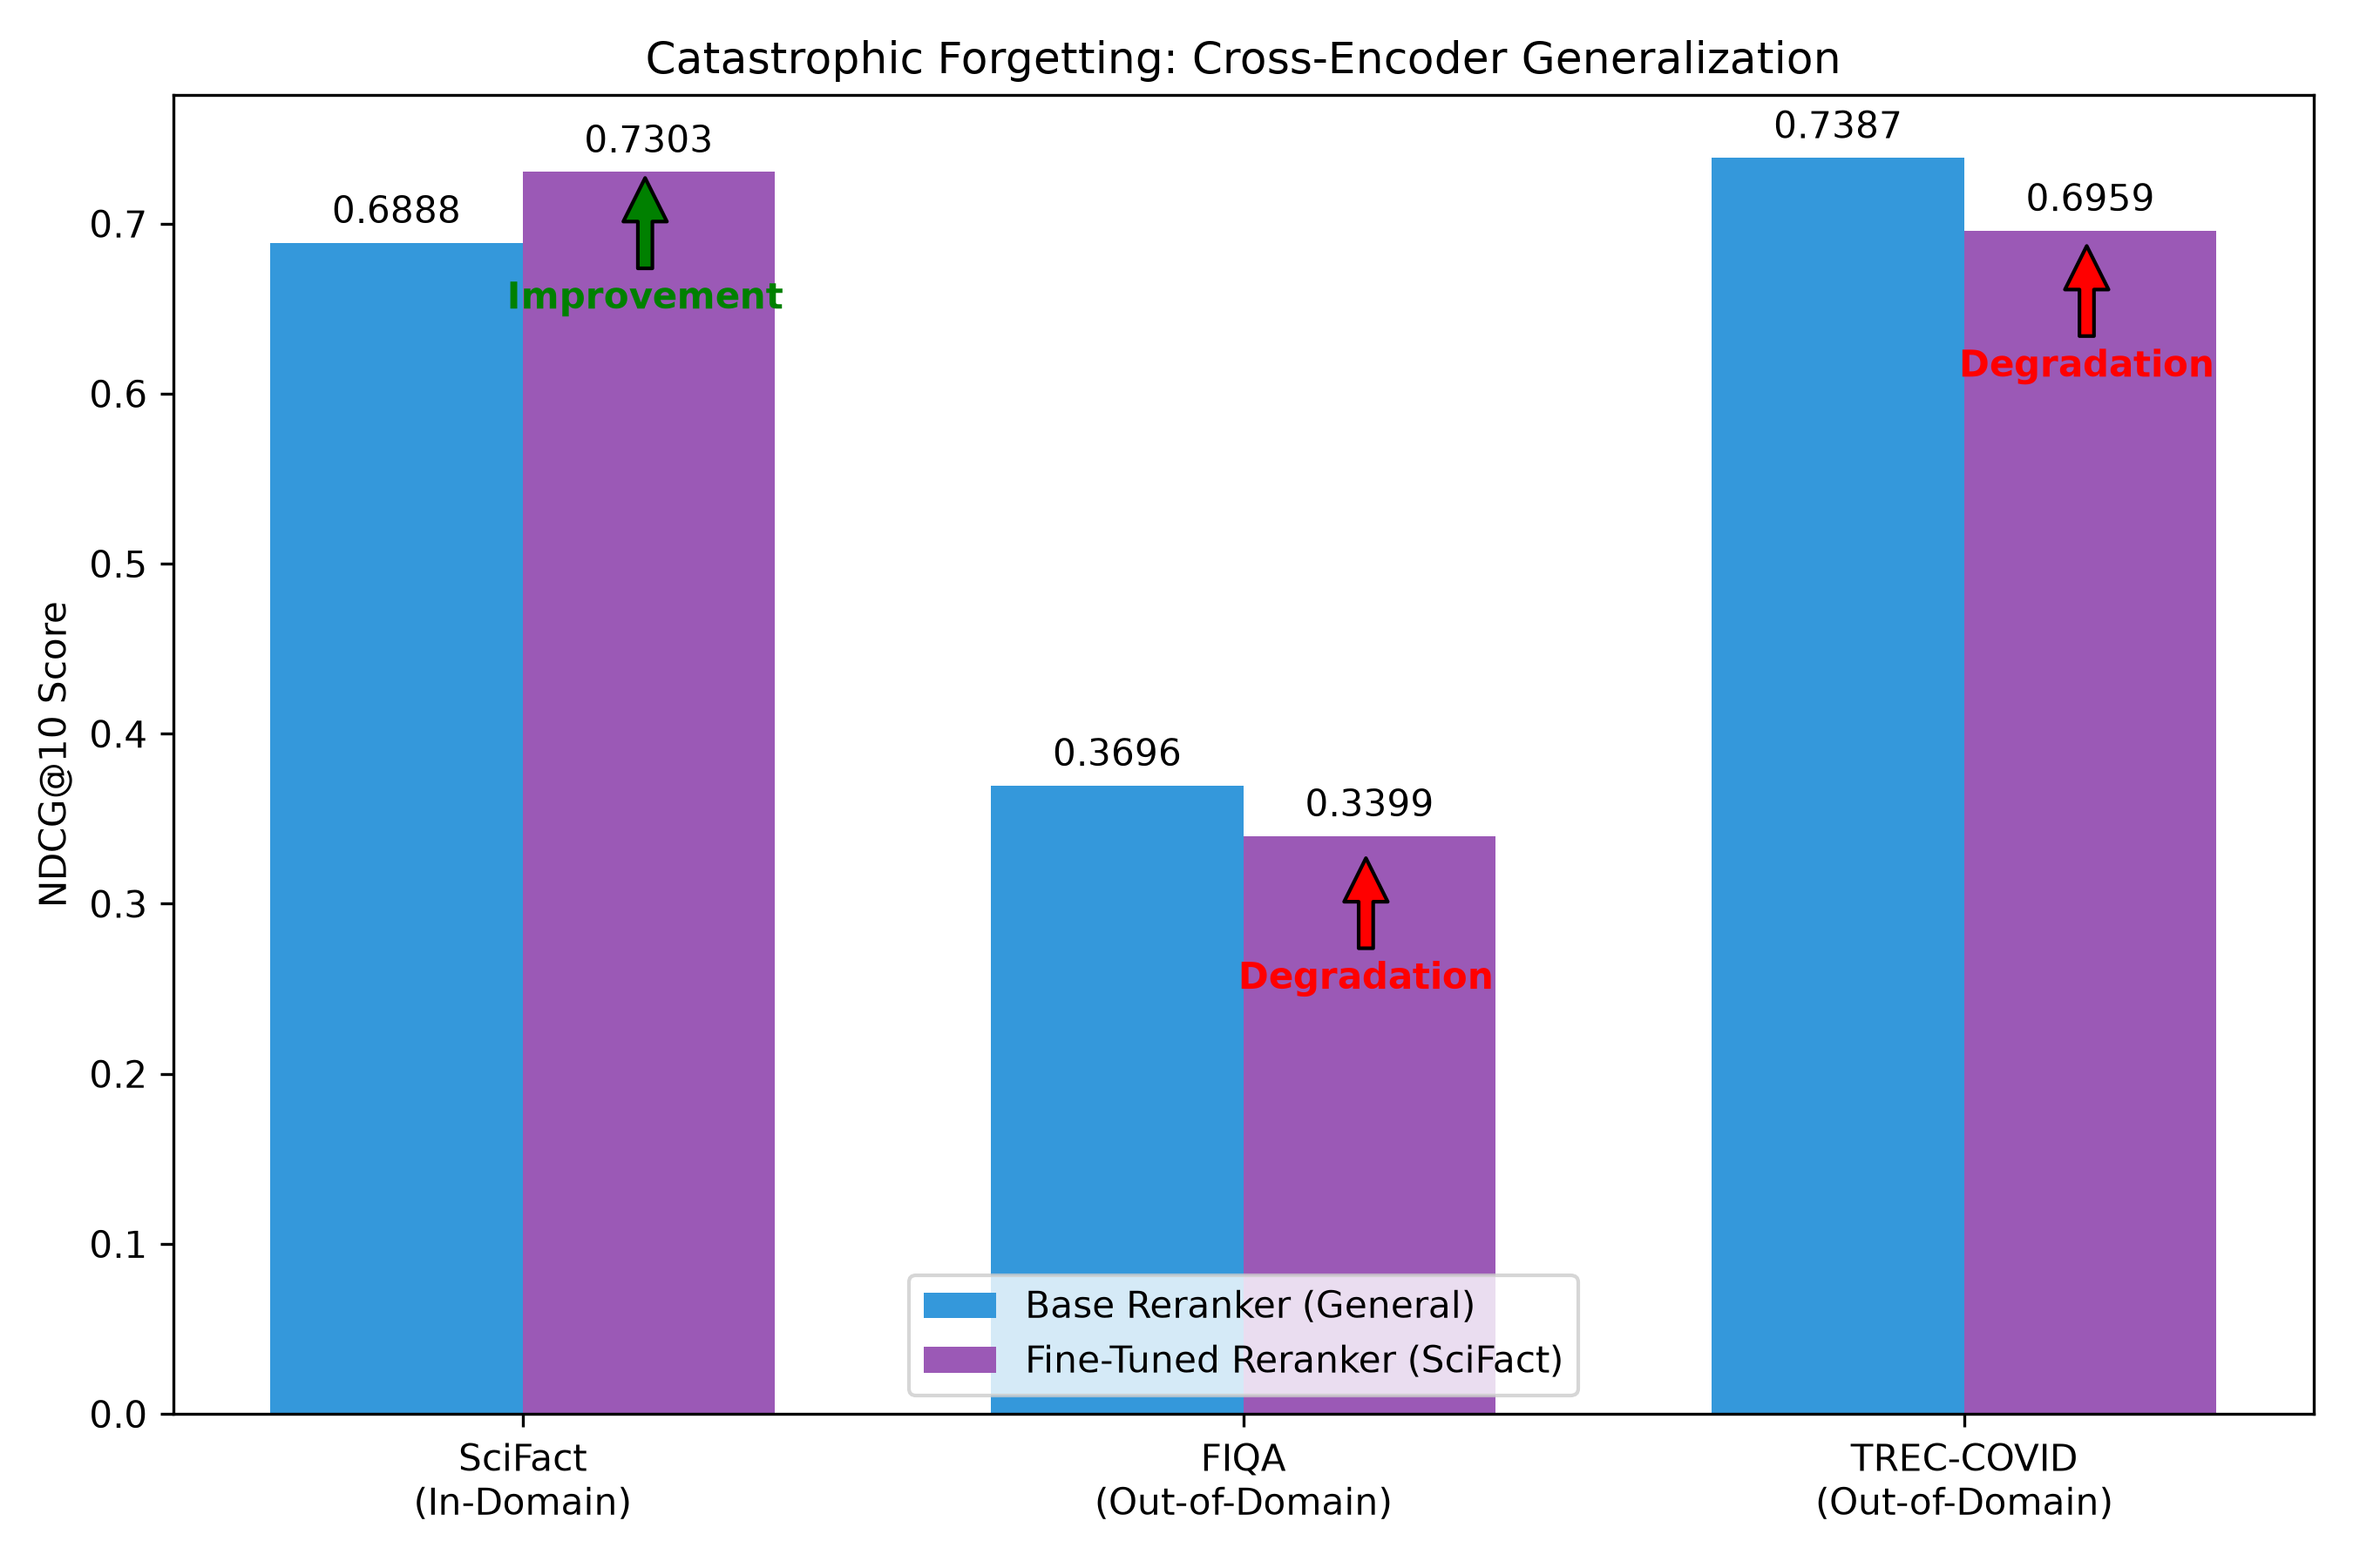
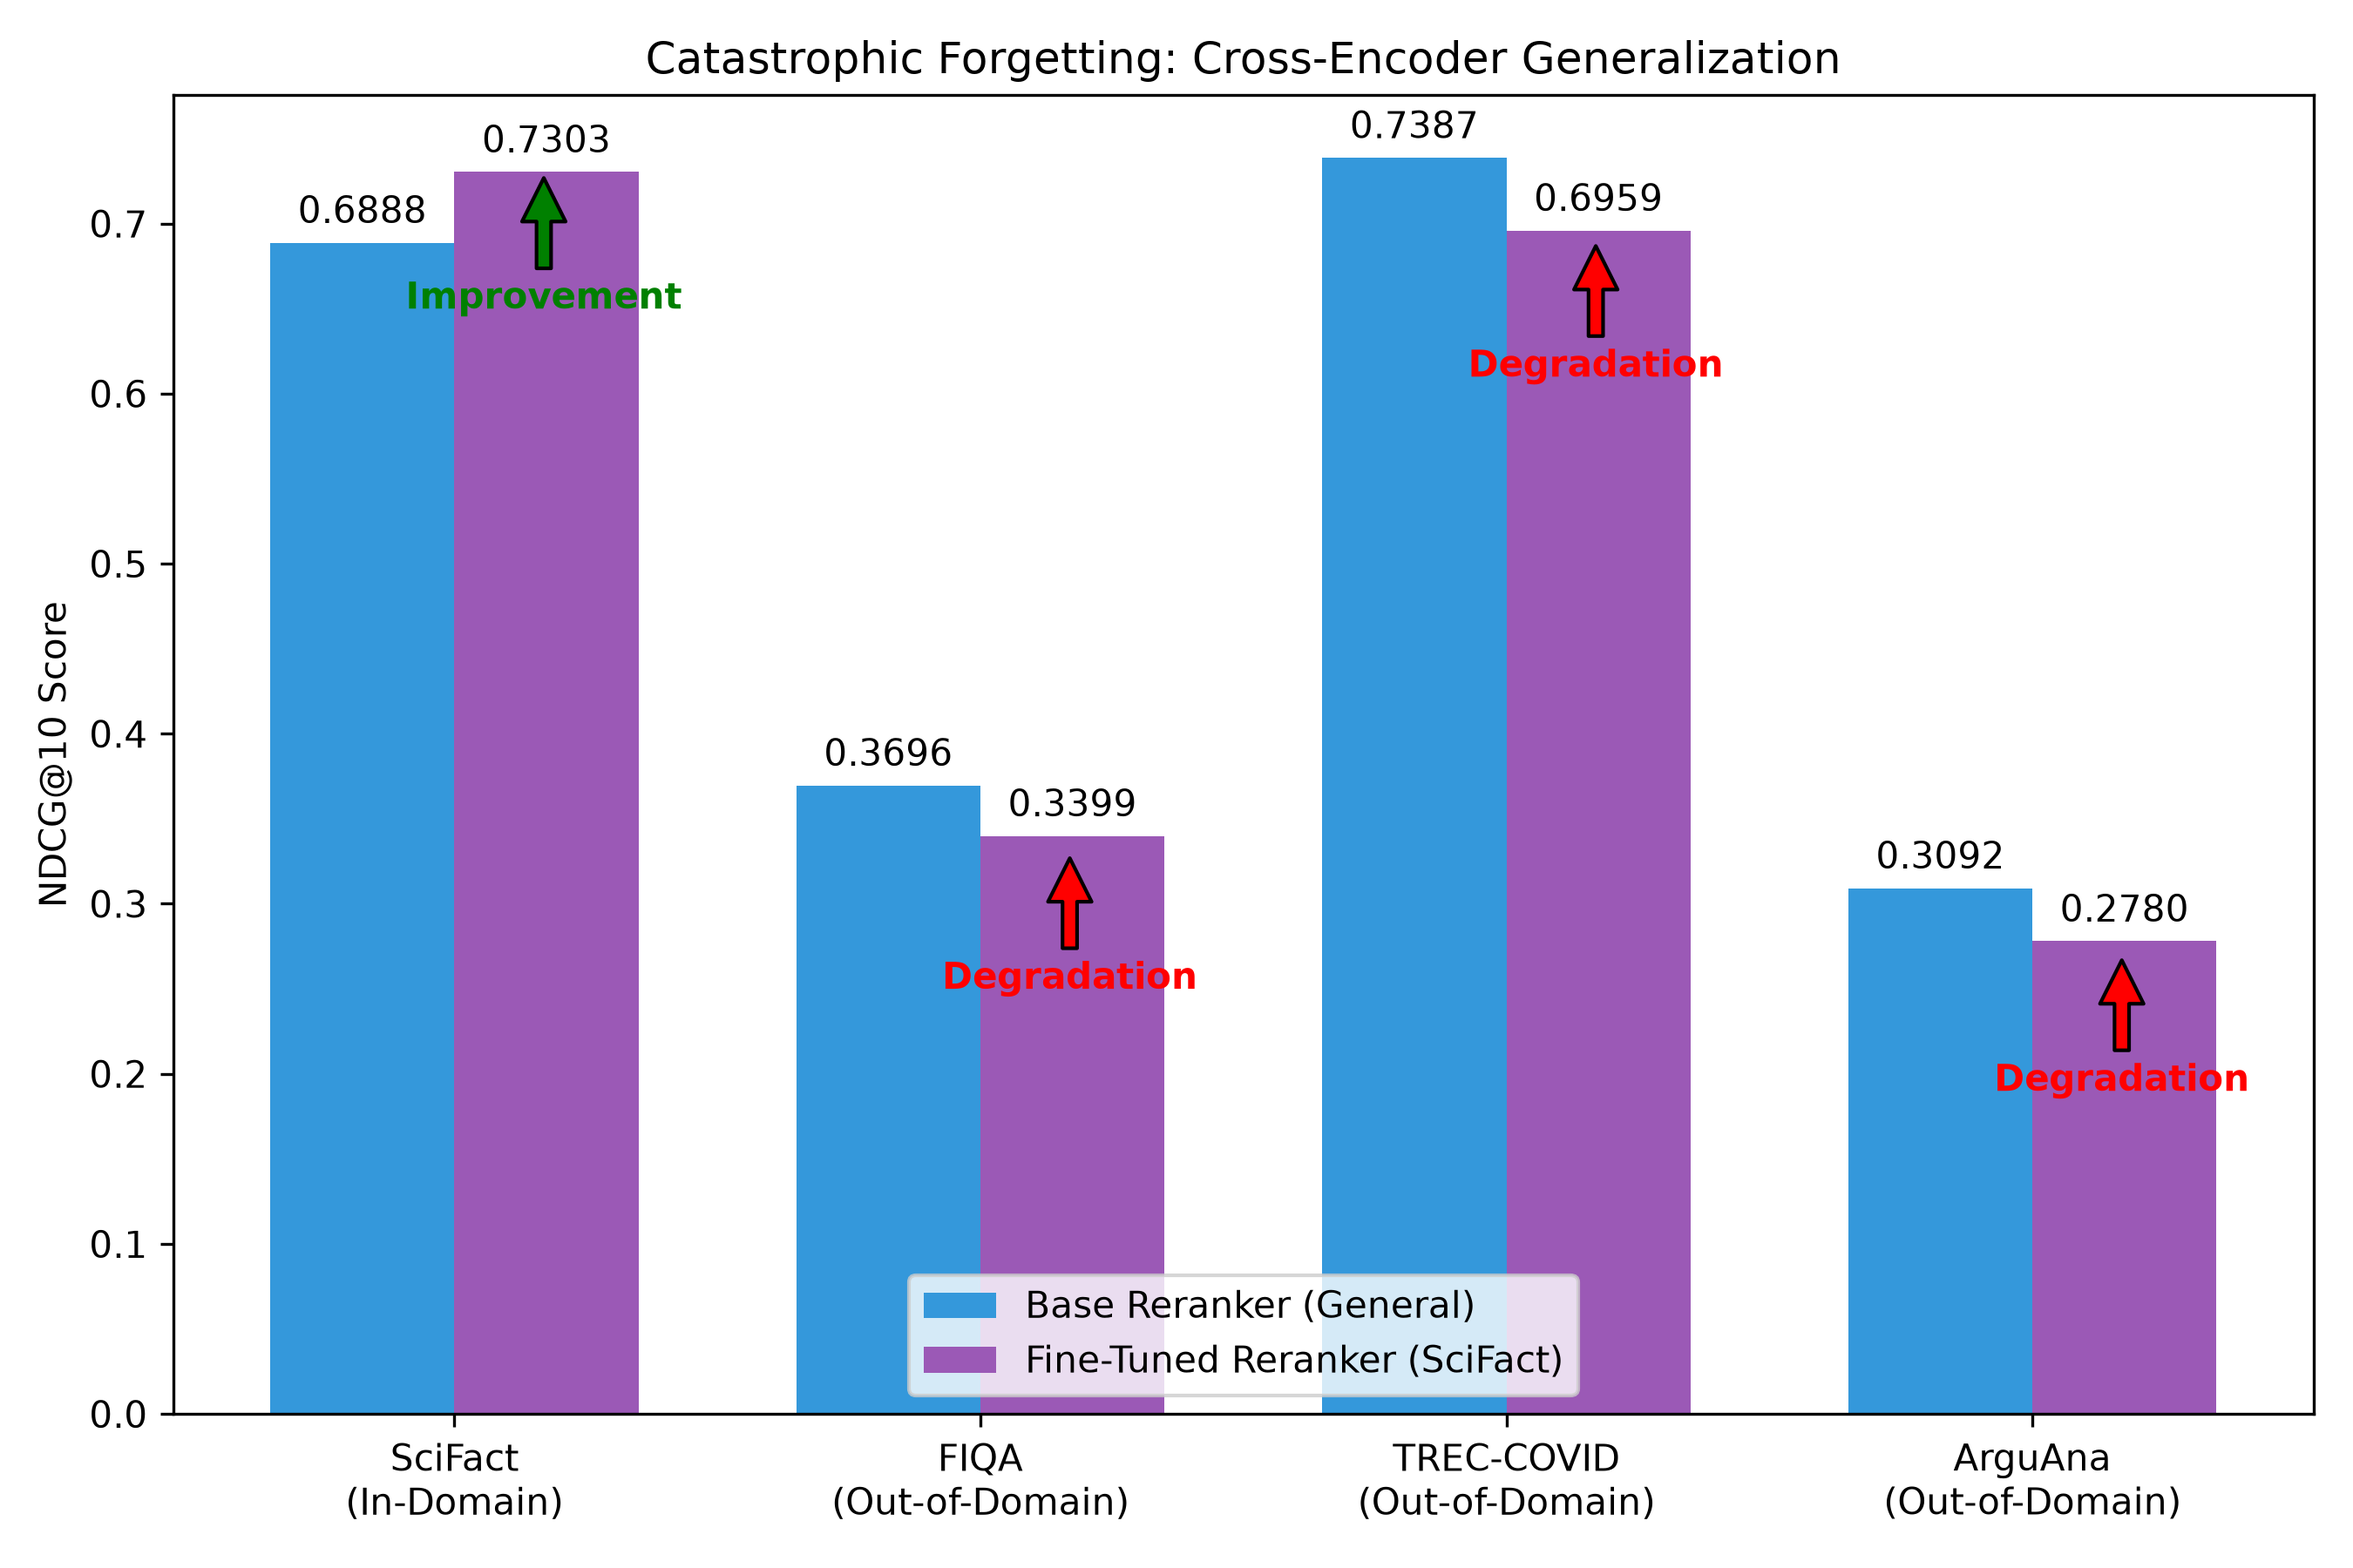
docs: add arguana results and update catastrophic forgetting plot

diff --git a/scripts/plot_benchmarks.py b/scripts/plot_benchmarks.py
@@ -53,9 +53,10 @@ datasets = [
     "SciFact\n(In-Domain)",
     "FIQA\n(Out-of-Domain)",
     "TREC-COVID\n(Out-of-Domain)",
+    "ArguAna\n(Out-of-Domain)",
 ]
-base_scores = [0.6888, 0.3696, 0.7387]
-ft_scores = [0.7303, 0.3399, 0.6959]
+base_scores = [0.6888, 0.3696, 0.7387, 0.3092]
+ft_scores = [0.7303, 0.3399, 0.6959, 0.2780]
 
 x = np.arange(len(datasets))
 width = 0.35
@@ -118,6 +119,15 @@ ax.annotate(
     "Degradation",
     xy=(2.17, 0.69),
     xytext=(2.17, 0.61),
+    arrowprops=dict(facecolor="red", shrink=0.05),
+    color="red",
+    fontweight="bold",
+    ha="center",
+)
+ax.annotate(
+    "Degradation",
+    xy=(3.17, 0.27),
+    xytext=(3.17, 0.19),
     arrowprops=dict(facecolor="red", shrink=0.05),
     color="red",
     fontweight="bold",

diff --git a/PROJECT_LOG.md b/PROJECT_LOG.md
@@ -787,22 +787,24 @@ After evaluating the full multi-stage architecture on **FIQA** (Finance) and **T
 First, I ran the benchmark using our initial pure Python `BM25Engine` built on native dictionaries.
 
 **FIQA (Finance - Evaluated on 1,000 queries due to size):**
-| System Architecture | NDCG@10 | MRR@10 | Recall@100 | Latency (ms) |
-|-----------------------------|---------|--------|------------|--------------|
-| 1. BM25 | 0.1342 | 0.1743 | 0.3434 | **1763.59** |
-| 2. Dense (BGE) | 0.3848 | 0.4734 | 0.6866 | 21.37 |
-| 3. Hybrid (RRF) | 0.2871 | 0.3523 | 0.6629 | **1810.29** |
-| 4. Hybrid + Base Reranker | 0.3759 | 0.4487 | 0.4526 | **2199.27** |
-| **5. Hybrid + FT Reranker** | 0.3454 | 0.4183 | 0.4144 | **2318.82** |
+
+| System Architecture         | NDCG@10 | MRR@10 | Recall@100 | Latency (ms) |
+| --------------------------- | ------- | ------ | ---------- | ------------ |
+| 1. BM25                     | 0.1342  | 0.1743 | 0.3434     | **1763.59**  |
+| 2. Dense (BGE)              | 0.3848  | 0.4734 | 0.6866     | 21.37        |
+| 3. Hybrid (RRF)             | 0.2871  | 0.3523 | 0.6629     | **1810.29**  |
+| 4. Hybrid + Base Reranker   | 0.3759  | 0.4487 | 0.4526     | **2199.27**  |
+| **5. Hybrid + FT Reranker** | 0.3454  | 0.4183 | 0.4144     | **2318.82**  |
 
 **TREC-COVID (Medicine - 50 queries):**
-| System Architecture | NDCG@10 | MRR@10 | Recall@100 | Latency (ms) |
-|-----------------------------|---------|--------|------------|--------------|
-| 1. BM25 | 0.4205 | 0.7188 | 0.0695 | **6935.50** |
-| 2. Dense (BGE) | 0.6452 | 0.8779 | 0.1233 | 39.39 |
-| 3. Hybrid (RRF) | 0.6456 | 0.9389 | 0.1090 | **7008.65** |
-| 4. Hybrid + Base Reranker | 0.7491 | 0.8833 | 0.0215 | **7516.69** |
-| **5. Hybrid + FT Reranker** | 0.7180 | 0.8857 | 0.0199 | **7530.62** |
+
+| System Architecture         | NDCG@10 | MRR@10 | Recall@100 | Latency (ms) |
+| --------------------------- | ------- | ------ | ---------- | ------------ |
+| 1. BM25                     | 0.4205  | 0.7188 | 0.0695     | **6935.50**  |
+| 2. Dense (BGE)              | 0.6452  | 0.8779 | 0.1233     | 39.39        |
+| 3. Hybrid (RRF)             | 0.6456  | 0.9389 | 0.1090     | **7008.65**  |
+| 4. Hybrid + Base Reranker   | 0.7491  | 0.8833 | 0.0215     | **7516.69**  |
+| **5. Hybrid + FT Reranker** | 0.7180  | 0.8857 | 0.0199     | **7530.62**  |
 
 While Dense Retrieval (FAISS) and Cross-Encoder reranking (GPU) executed in milliseconds, the lexical BM25 baseline became a massive bottleneck. On the 171k documents of TREC-COVID, the pure Python BM25 implementation took nearly **7 seconds per query**.
 
@@ -813,22 +815,34 @@ To solve this latency bottleneck, I integrated a production-grade **Elasticsearc
 Here are the results running the exact same queries against the new Elasticsearch backend:
 
 **FIQA (Finance):**
-| System Architecture | NDCG@10 | MRR@10 | Recall@100 | Latency (ms) |
-|-----------------------------|---------|--------|------------|--------------|
-| 1. BM25 | 0.2536 | 0.3189 | 0.5489 | **9.99** |
-| 2. Dense (BGE) | 0.3848 | 0.4734 | 0.6866 | 21.45 |
-| 3. Hybrid (RRF) | 0.3638 | 0.4502 | 0.6943 | 33.73 |
-| 4. Hybrid + Base Reranker | **0.3696** | 0.4419 | 0.4451 | 405.97 |
-| **5. Hybrid + FT Reranker** | **0.3399** | 0.4123 | 0.4093 | 403.75 |
+
+| System Architecture         | NDCG@10    | MRR@10 | Recall@100 | Latency (ms) |
+| --------------------------- | ---------- | ------ | ---------- | ------------ |
+| 1. BM25                     | 0.2536     | 0.3189 | 0.5489     | **9.99**     |
+| 2. Dense (BGE)              | 0.3848     | 0.4734 | 0.6866     | 21.45        |
+| 3. Hybrid (RRF)             | 0.3638     | 0.4502 | 0.6943     | 33.73        |
+| 4. Hybrid + Base Reranker   | **0.3696** | 0.4419 | 0.4451     | 405.97       |
+| **5. Hybrid + FT Reranker** | **0.3399** | 0.4123 | 0.4093     | 403.75       |
 
 **TREC-COVID (Medicine):**
-| System Architecture | NDCG@10 | MRR@10 | Recall@100 | Latency (ms) |
-|-----------------------------|---------|--------|------------|--------------|
-| 1. BM25 | 0.5913 | 0.8840 | 0.1117 | **24.03** |
-| 2. Dense (BGE) | 0.6452 | 0.8779 | 0.1233 | 36.80 |
-| 3. Hybrid (RRF) | 0.7498 | 0.9800 | 0.1289 | 60.58 |
-| 4. Hybrid + Base Reranker | **0.7387** | 0.8717 | 0.0213 | 461.16 |
-| **5. Hybrid + FT Reranker** | **0.6959** | 0.8992 | 0.0195 | 471.20 |
+
+| System Architecture         | NDCG@10    | MRR@10 | Recall@100 | Latency (ms) |
+| --------------------------- | ---------- | ------ | ---------- | ------------ |
+| 1. BM25                     | 0.5913     | 0.8840 | 0.1117     | **24.03**    |
+| 2. Dense (BGE)              | 0.6452     | 0.8779 | 0.1233     | 36.80        |
+| 3. Hybrid (RRF)             | 0.7498     | 0.9800 | 0.1289     | 60.58        |
+| 4. Hybrid + Base Reranker   | **0.7387** | 0.8717 | 0.0213     | 461.16       |
+| **5. Hybrid + FT Reranker** | **0.6959** | 0.8992 | 0.0195     | 471.20       |
+
+**ArguAna (Social Arguments/Debates):**
+
+| System Architecture         | NDCG@10    | MRR@10 | Recall@100 | Latency (ms) |
+| --------------------------- | ---------- | ------ | ---------- | ------------ |
+| 1. BM25                     | 0.3568     | 0.2449 | 0.9587     | **12.14**    |
+| 2. Dense (BGE)              | 0.4287     | 0.3038 | 0.9844     | 12.95        |
+| 3. Hybrid (RRF)             | 0.4262     | 0.2981 | 0.9865     | 28.74        |
+| 4. Hybrid + Base Reranker   | **0.3092** | 0.1992 | 0.6615     | 584.43       |
+| **5. Hybrid + FT Reranker** | **0.2780** | 0.1775 | 0.6017     | 583.60       |
 
 By moving from Python dictionaries to Elasticsearch's highly optimized C++/Java inverted indices, the lexical search latency plummeted from ~7,000 ms to **~24 ms**. This conclusively proves why production systems rely on dedicated search infrastructure.
 
@@ -840,8 +854,9 @@ Finally, comparing the Reranker scores in the final benchmark reveals a profound
 
 - **FIQA (Finance):** Base Reranker (0.3696) vs. FT Reranker (0.3399) — **Degradation**
 - **TREC-COVID (Medicine):** Base Reranker (0.7387) vs. FT Reranker (0.6959) — **Degradation**
+- **ArguAna (Social Debates):** Base Reranker (0.3092) vs. FT Reranker (0.2780) — **Degradation**
 
-While the InfoNCE fine-tuning on SciFact hard negatives vastly improved performance on scientific claims, it caused the neural network to "forget" how to evaluate general, financial, and medical texts. The model overfitted to the scientific domain. The Base model (trained on millions of broad MS-MARCO web queries) remained far more robust across unknown domains.
+While the InfoNCE fine-tuning on SciFact hard negatives vastly improved performance on scientific claims, it caused the neural network to "forget" how to evaluate general, financial, medical, and argumentative texts. The model overfitted to the scientific domain. The Base model (trained on millions of broad MS-MARCO web queries) remained far more robust across unknown domains.
 
 This proves that while domain-specific contrastive learning is incredibly powerful for isolated verticals, deploying a generalized search engine requires training on a massively diverse distribution of hard negatives to avoid **Catastrophic Forgetting**.
 
